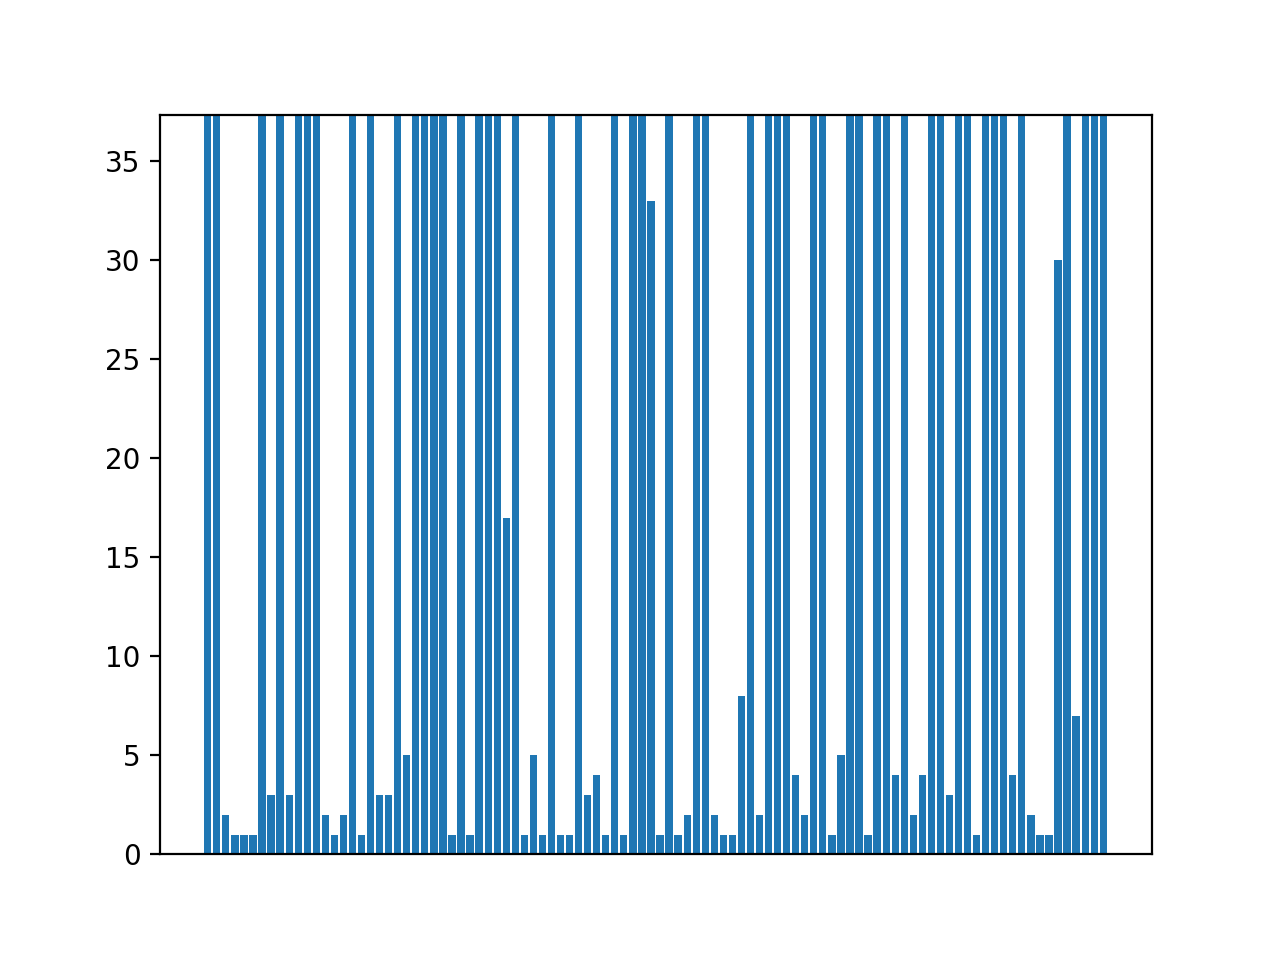
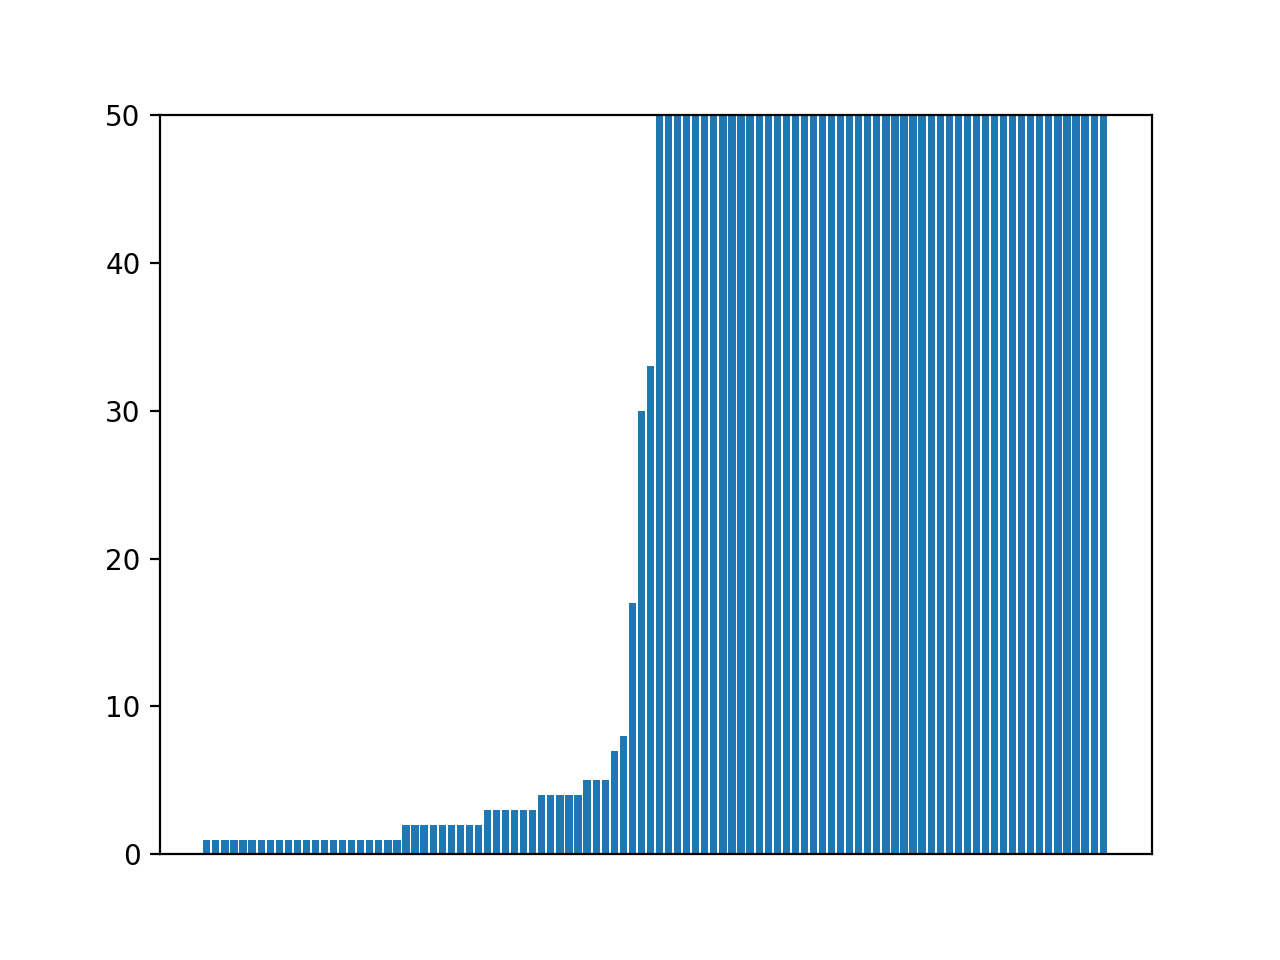
Updated plotting script + more plots

diff --git a/plotStAn.py b/plotStAn.py
@@ -54,7 +54,7 @@ def plot_cumulative_and_new_cases(file):
 def final_freq_hist(file):
     data = pd.read_csv(file)
 
-    final_frequencies = data.iloc[[-1]].squeeze()
+    final_frequencies = data.iloc[[-1]].squeeze().sort_values()
 
     x = np.arange(len(final_frequencies))
 
